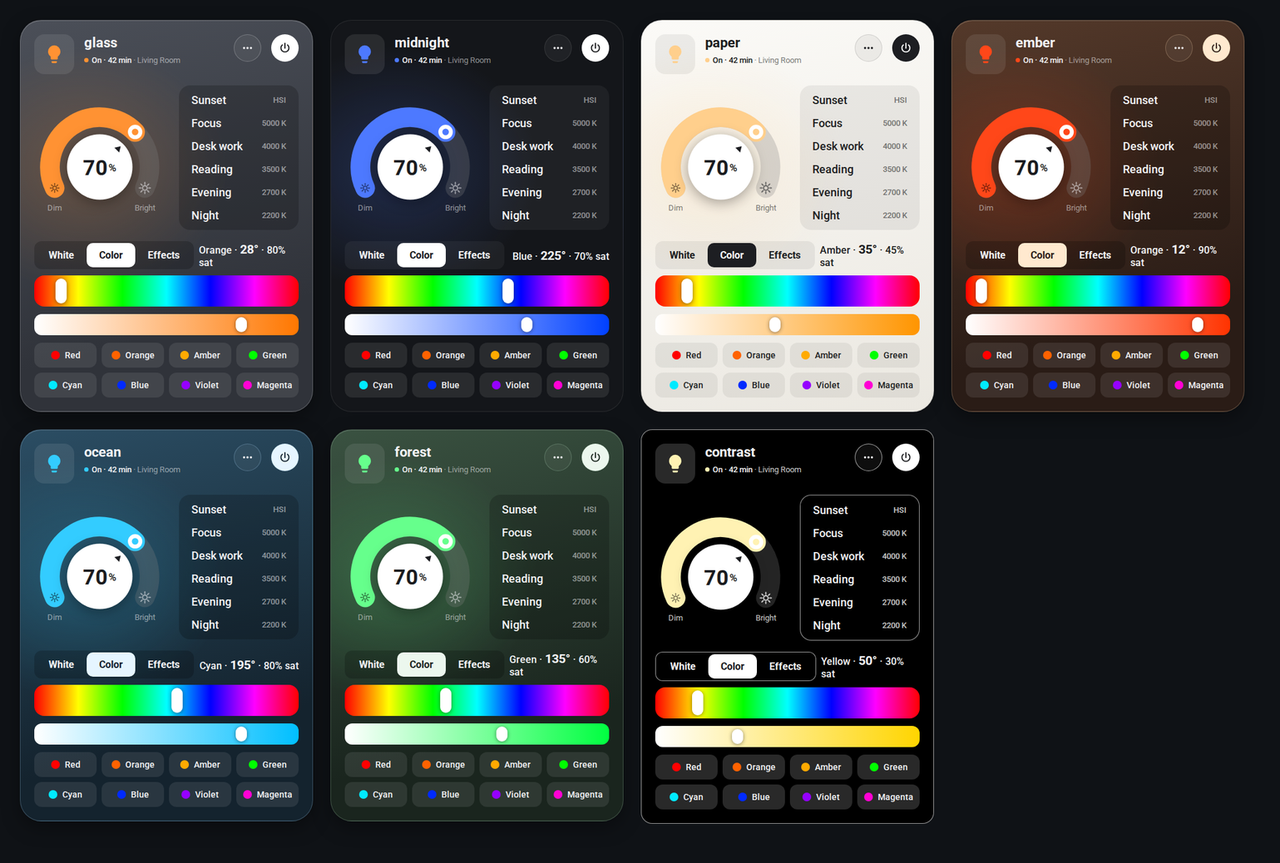
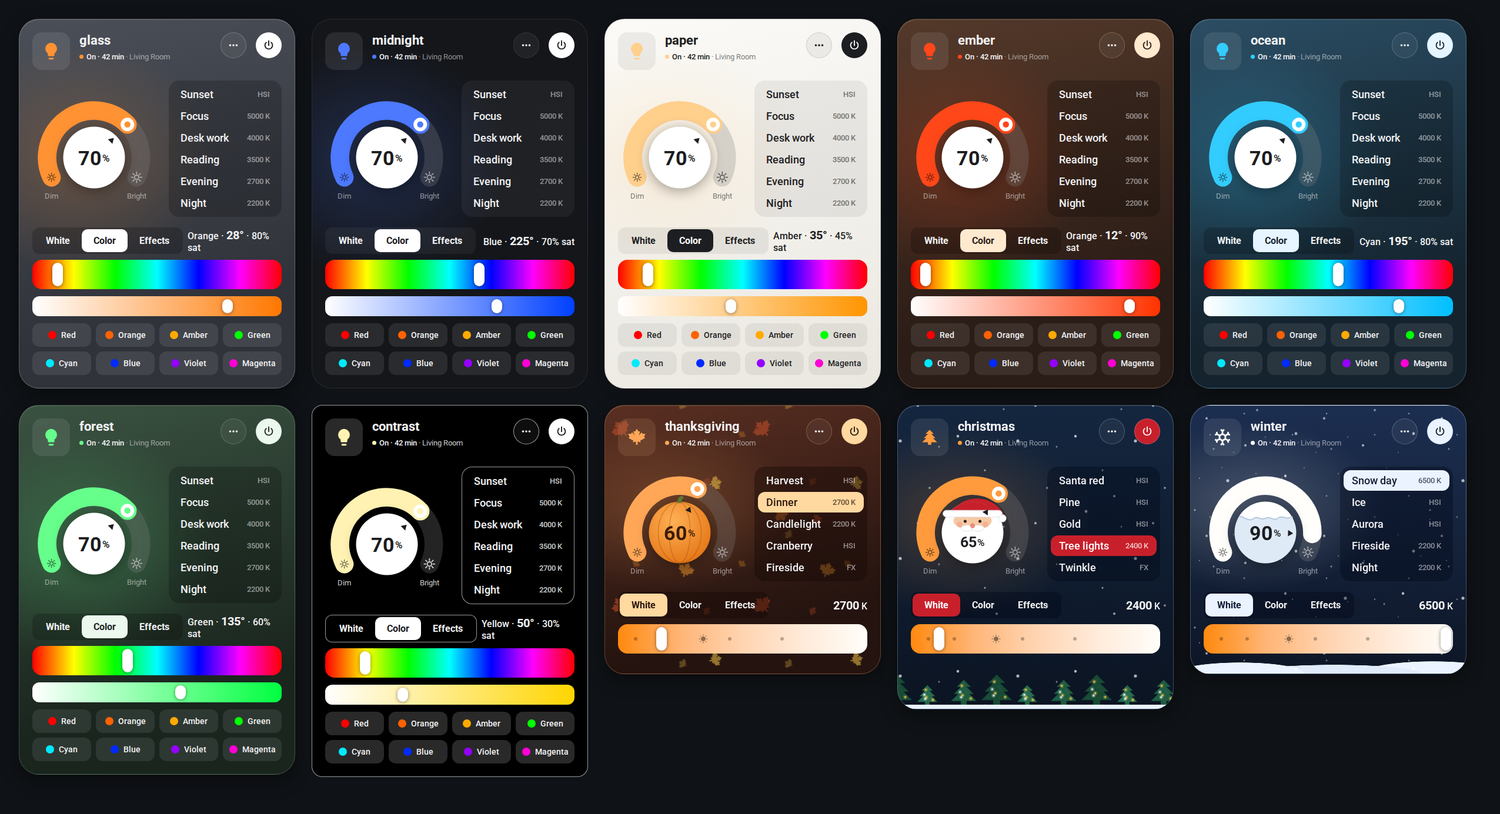
README: holiday themes in the lead screenshot and the theme grid

diff --git a/README.md b/README.md
@@ -5,7 +5,7 @@ Two Home Assistant dashboard cards for one light, in a single file with no depen
 - `custom:light-studio-card`: brightness, presets, and warmth / colour / effect tabs that appear only when the light supports them.
 - `custom:light-dial-card`: the same controls around a brightness dial, with themes and a compact layout.
 
-![The studio card, the dial card and the dial card's compact layout](docs/cards.png)
+![The studio card, the dial card in the thanksgiving theme, and its compact layout in the christmas theme](docs/cards.png)
 
 The screenshots show the cards running on a pretend lamp outside Home Assistant.
 
@@ -43,9 +43,9 @@ compact: true      # header, brightness slider and preset chips only
 
 ### Themes
 
-The dial card has seven themes. `theme: auto` uses midnight in dark mode and paper in light mode.
+The dial card has seven themes and three seasonal ones. `theme: auto` uses midnight in dark mode and paper in light mode.
 
-![The dial card in each theme: glass, midnight, paper, ember, ocean, forest and contrast](docs/themes.png)
+![The dial card in each theme: glass, midnight, paper, ember, ocean, forest, contrast, thanksgiving, christmas and winter](docs/themes.png)
 
 Three seasonal themes add moving art behind the controls and dress the dial's centre: `thanksgiving` (falling leaves, a pumpkin), `christmas` (snow over a row of lit trees, Santa) and `winter` (snow, a snow-capped dial). Each card starts its animation at its own random point, so cards side by side don't move in step. The motion stops when the device asks for reduced motion.
 
